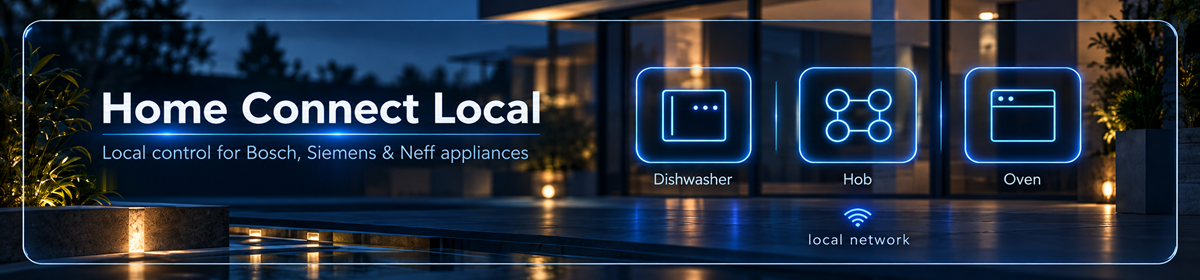
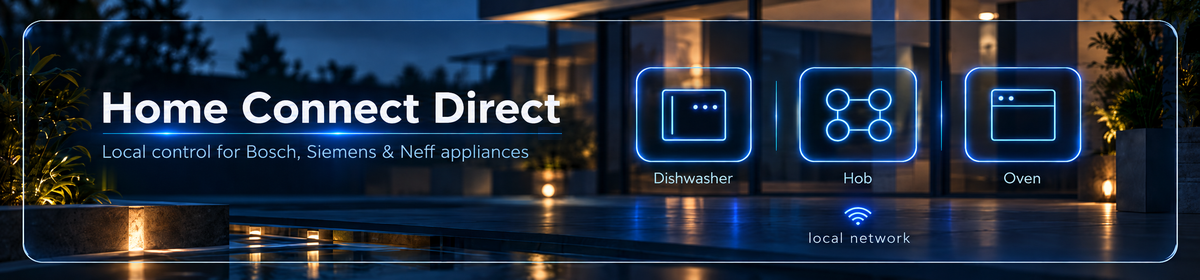
chore: rename to Home Connect Direct

diff --git a/README.md b/README.md
@@ -1,11 +1,9 @@
-![Home Connect Local: local control for Bosch, Siemens and Neff appliances](https://raw.githubusercontent.com/Asmir1975/homeconnect_local_hass-UI/main/assets/banner.png)
+![Home Connect Direct: local control for Bosch, Siemens and Neff appliances](https://raw.githubusercontent.com/Asmir1975/homeconnect_direct/main/assets/banner.png)
 
-[![HACS Custom](https://img.shields.io/badge/HACS-Custom-41BDF5.svg?style=flat-square)](https://github.com/hacs/integration)
-[![Home Assistant](https://img.shields.io/badge/Home%20Assistant-Integration-41BDF5?style=flat-square&logo=home-assistant&logoColor=white)](https://www.home-assistant.io/)
-[![Version](https://img.shields.io/github/v/release/Asmir1975/homeconnect_local_hass-UI?style=flat-square&logo=github&color=41BDF5&logoColor=white)](https://github.com/Asmir1975/homeconnect_local_hass-UI/releases)
+[![Version](https://img.shields.io/github/v/release/Asmir1975/homeconnect_direct?style=flat-square&logo=github&color=41BDF5&logoColor=white)](https://github.com/Asmir1975/homeconnect_direct/releases)
 
-[![GitHub stars](https://img.shields.io/github/stars/Asmir1975/homeconnect_local_hass-UI?style=flat-square)](https://github.com/Asmir1975/homeconnect_local_hass-UI/stargazers)
-[![GitHub downloads](https://img.shields.io/github/downloads/Asmir1975/homeconnect_local_hass-UI/total?style=flat-square)](https://github.com/Asmir1975/homeconnect_local_hass-UI/releases)
+[![GitHub stars](https://img.shields.io/github/stars/Asmir1975/homeconnect_direct?style=flat-square)](https://github.com/Asmir1975/homeconnect_direct/stargazers)
+[![GitHub downloads](https://img.shields.io/github/downloads/Asmir1975/homeconnect_direct/total?style=flat-square)](https://github.com/Asmir1975/homeconnect_direct/releases)
 
 <div align="center">
 
@@ -37,19 +35,19 @@ Control Bosch, Siemens and Neff appliances from Home Assistant over your local n
 
 1. Add the repository to HACS, download it and restart Home Assistant.
 
-   [![Open your Home Assistant instance and open this repository in HACS.](https://my.home-assistant.io/badges/hacs_repository.svg)](https://my.home-assistant.io/redirect/hacs_repository/?owner=Asmir1975&repository=homeconnect_local_hass-UI&category=integration)
+   [![Open your Home Assistant instance and open this repository in HACS.](https://my.home-assistant.io/badges/hacs_repository.svg)](https://my.home-assistant.io/redirect/hacs_repository/?owner=Asmir1975&repository=homeconnect_direct&category=integration)
 
-   <sub>Or add it by hand: HACS → Custom repositories → `https://github.com/Asmir1975/homeconnect_local_hass-UI`, type Integration.</sub>
+   <sub>Or add it by hand: HACS → Custom repositories → `https://github.com/Asmir1975/homeconnect_direct`, type Integration.</sub>
 
 2. Add the integration and choose **Sign in with Home Connect**.
 
-   [![Open your Home Assistant instance and start setting up Home Connect Local.](https://my.home-assistant.io/badges/config_flow_start.svg)](https://my.home-assistant.io/redirect/config_flow_start/?domain=homeconnect_ws)
+   [![Open your Home Assistant instance and start setting up Home Connect Direct.](https://my.home-assistant.io/badges/config_flow_start.svg)](https://my.home-assistant.io/redirect/config_flow_start/?domain=homeconnect_ws)
 
    <sub>Or upload a profile ZIP from the [profile downloader](https://github.com/bruestel/homeconnect-profile-downloader).</sub>
 
    <sub>If Home Assistant already found your appliance, click **Add** on it under Settings → Devices & Services instead.</sub>
 
-3. Approve access, copy the full URL from your browser's address bar into the form, then pick your appliance. The page after approval won't load. That's normal. [Guide with screenshots](https://github.com/Asmir1975/homeconnect_local_hass-UI/discussions/102)
+3. Approve access, copy the full URL from your browser's address bar into the form, then pick your appliance. The page after approval won't load. That's normal. [Guide with screenshots](https://github.com/Asmir1975/homeconnect_direct/discussions/102)
 
    <sub>You log in on the Home Connect page. Home Assistant only keeps the appliance profile.</sub>
 
@@ -57,19 +55,19 @@ Control Bosch, Siemens and Neff appliances from Home Assistant over your local n
 
 ## Issues & feature requests
 
-[Open an issue](https://github.com/Asmir1975/homeconnect_local_hass-UI/issues) and attach:
+[Open an issue](https://github.com/Asmir1975/homeconnect_direct/issues) and attach:
 
 - a **debug log** (see below)
-- the **diagnostics** of the appliance: Settings → Devices & Services → Home Connect Local → your appliance → **Download diagnostics**. The file contains the appliance profile and current values. Keys, serial number and MAC address are removed.
+- the **diagnostics** of the appliance: Settings → Devices & Services → Home Connect Direct → your appliance → **Download diagnostics**. The file contains the appliance profile and current values. Keys, serial number and MAC address are removed.
 
-  <img src="https://raw.githubusercontent.com/Asmir1975/homeconnect_local_hass-UI/main/assets/diagnostics_button.png" alt="Download diagnostics" width="300">
+  <img src="https://raw.githubusercontent.com/Asmir1975/homeconnect_direct/main/assets/diagnostics_button.png" alt="Download diagnostics" width="300">
 - your **model number**
 
 ## Debug logging
 
-**In the UI**: Settings → Devices & Services → Home Connect Local → ⋮ → **Enable debug logging**. Reproduce the problem and disable it again. The log downloads automatically.
+**In the UI**: Settings → Devices & Services → Home Connect Direct → ⋮ → **Enable debug logging**. Reproduce the problem and disable it again. The log downloads automatically.
 
-<img src="https://raw.githubusercontent.com/Asmir1975/homeconnect_local_hass-UI/main/assets/debug_menu.png" alt="Enable debug logging" width="220">
+<img src="https://raw.githubusercontent.com/Asmir1975/homeconnect_direct/main/assets/debug_menu.png" alt="Enable debug logging" width="220">
 
 Optional (preferred, includes startup): add this to `configuration.yaml`, restart Home Assistant and download the full log:
 
